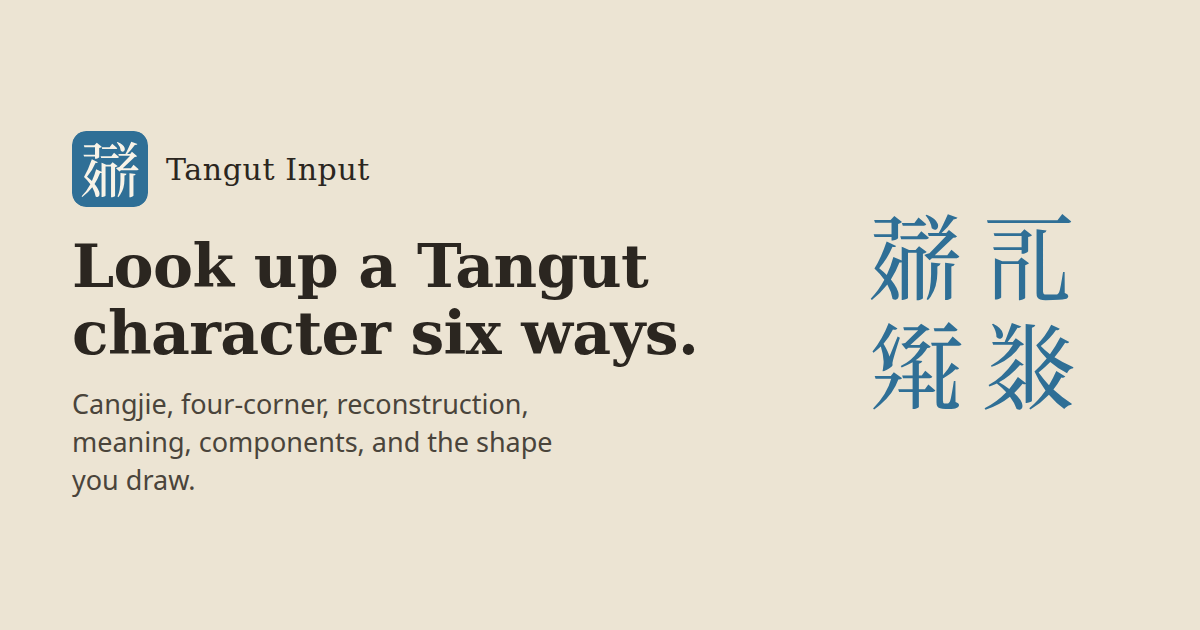
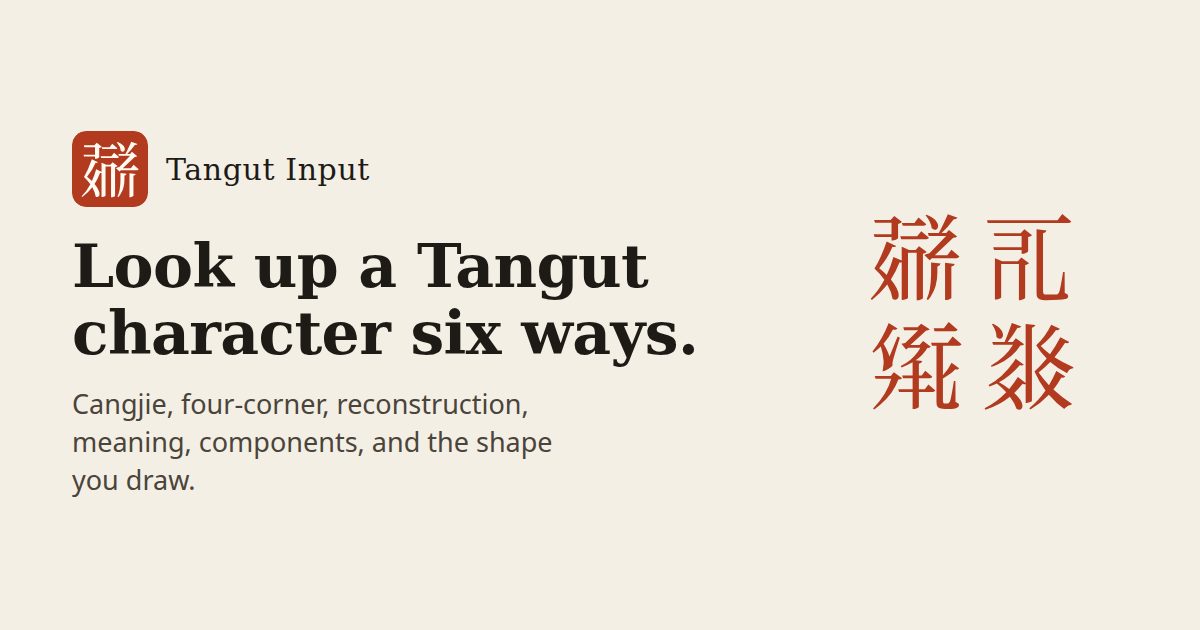
feat(ui): switch colour schemes and keep paper as the default

diff --git a/app/App.svelte b/app/App.svelte
@@ -4,7 +4,7 @@
   import { tick } from 'svelte'
   import { db, load } from './lib/db.svelte.js'
   import { route, go, PAGES, GROUPS, PRIMARY } from './lib/route.svelte.js'
-  import { ui, applyTangut, applyTheme, cycleTheme, setTangut, setReading, TANGUT_FACES } from './lib/ui.svelte.js'
+  import { ui, applyTangut, applyTheme, cycleTheme, setTheme, setTangut, setReading, setPalette, PALETTES, TANGUT_FACES } from './lib/ui.svelte.js'
   import { SYSTEMS, systemName, systemTitle } from './lib/reading.js'
   import { toast } from './lib/clip.svelte.js'
   import { i18n, LOCALES, setLocale, t } from './lib/i18n.svelte.js'
@@ -160,6 +160,15 @@
           </select>
         </span>
       </label>
+      <label class="palette" title={t('palette.label')}>
+        <span class="ui-visually-hidden">{t('palette.label')}</span>
+        <span class="ui-select-wrap">
+          <select class="ui-select" data-size="sm" value={ui.palette}
+            onchange={(/** @type {Event & { currentTarget: HTMLSelectElement }} */ event) => setPalette(/** @type {'paper' | 'mineral' | 'indigo' | 'sand'} */ (event.currentTarget.value))}>
+            {#each PALETTES as entry (entry.key)}<option value={entry.key}>{t(entry.label)}</option>{/each}
+          </select>
+        </span>
+      </label>
       <label class="lang" title={t('lang.label')}>
         <span class="ui-visually-hidden">{t('lang.label')}</span>
         <span class="ui-select-wrap">
@@ -269,15 +278,37 @@
       {/each}
     </div>
     <hr class="ui-menu-separator" />
-    <label class="sheet-lang">
-      <span class="ui-label">{t('lang.label')}</span>
-      <span class="ui-select-wrap">
-        <select class="ui-select" value={i18n.locale}
-          onchange={(/** @type {Event & { currentTarget: HTMLSelectElement }} */ event) => setLocale(/** @type {any} */ (event.currentTarget.value))}>
-          {#each LOCALES as locale (locale.key)}<option value={locale.key} lang={locale.key}>{locale.name}</option>{/each}
-        </select>
-      </span>
-    </label>
+    <div class="sheet-picks">
+      <label class="sheet-pick">
+        <span class="ui-label">{t('palette.label')}</span>
+        <span class="ui-select-wrap">
+          <select class="ui-select" value={ui.palette}
+            onchange={(/** @type {Event & { currentTarget: HTMLSelectElement }} */ event) => setPalette(/** @type {'paper' | 'mineral' | 'indigo' | 'sand'} */ (event.currentTarget.value))}>
+            {#each PALETTES as entry (entry.key)}<option value={entry.key}>{t(entry.label)}</option>{/each}
+          </select>
+        </span>
+      </label>
+      <label class="sheet-pick">
+        <span class="ui-label">{t('theme.label')}</span>
+        <span class="ui-select-wrap">
+          <select class="ui-select" value={ui.theme}
+            onchange={(/** @type {Event & { currentTarget: HTMLSelectElement }} */ event) => setTheme(/** @type {'auto' | 'light' | 'dark'} */ (event.currentTarget.value))}>
+            <option value="auto">{t('theme.auto')}</option>
+            <option value="light">{t('theme.light')}</option>
+            <option value="dark">{t('theme.dark')}</option>
+          </select>
+        </span>
+      </label>
+      <label class="sheet-pick">
+        <span class="ui-label">{t('lang.label')}</span>
+        <span class="ui-select-wrap">
+          <select class="ui-select" value={i18n.locale}
+            onchange={(/** @type {Event & { currentTarget: HTMLSelectElement }} */ event) => setLocale(/** @type {any} */ (event.currentTarget.value))}>
+            {#each LOCALES as locale (locale.key)}<option value={locale.key} lang={locale.key}>{locale.name}</option>{/each}
+          </select>
+        </span>
+      </label>
+    </div>
   </dialog>
 
   <div class="toast" role="status" aria-live="polite">{#if toast.message}<span class="ui-toast">{toast.message}</span>{/if}</div>
@@ -300,6 +331,7 @@
   .finders .group + .group, .finders .primary + .group{margin-inline-start:var(--ui-space-xs);padding-inline-start:var(--ui-space-xs);border-inline-start:1px solid var(--ui-color-border)}
   .aside{margin-inline-start:auto;display:flex;align-items:center;gap:var(--ui-space-2xs)}
   .reading :global(.ui-select){inline-size:154px}
+  .palette :global(.ui-select){inline-size:96px}
   .lang :global(.ui-select){inline-size:104px}
   .font-pick{position:relative}
   .sample{font-size:18px;line-height:1}
@@ -329,7 +361,8 @@
   .sheet-link:hover,.sheet-link.on{background:var(--ui-color-surface-hover)}
   .sheet-link.on .sheet-name{color:var(--ui-color-accent-ink)}
   .sheet-name{font-size:var(--ui-text-md);font-weight:var(--ui-weight-semibold);white-space:nowrap}
-  .sheet-lang{display:grid;gap:var(--ui-space-xs);margin-top:var(--ui-space-md);padding-inline:var(--ui-space-sm)}
+  .sheet-picks{display:grid;gap:var(--ui-space-md);margin-top:var(--ui-space-md);padding-inline:var(--ui-space-sm)}
+  .sheet-pick{display:grid;gap:var(--ui-space-xs)}
   .sheet .ui-menu-separator{margin-inline:var(--ui-space-sm)}
 
   @media (max-width:1180px){
@@ -340,7 +373,7 @@
   }
   /* A tablet keeps every finder: the bar takes a second row, and its rule runs the width of the
      page like the row above. The sticky chrome below it follows the new height. */
-  @media (min-width:901px) and (max-width:1180px){
+  @media (min-width:901px) and (max-width:1439px){
     .shell{--topbar-h:96px}
     .top{flex-wrap:wrap;gap:0 var(--ui-space-xl);padding-inline:var(--ui-space-xl);block-size:var(--topbar-h)}
     .mark,.aside{block-size:55px}
@@ -351,7 +384,7 @@
   @media (max-width:900px){
     .shell{--topbar-h:54px}
     .top{gap:var(--ui-space-sm);padding-inline:var(--ui-space-lg)}
-    .finders,.lang{display:none}
+    .finders,.lang,.palette{display:none}
     .aside{gap:2px}
     .reading :global(.ui-select){inline-size:142px;font-size:var(--ui-text-2xs)}
     .body{grid-template-columns:minmax(0,1fr)}

diff --git a/app/lib/ui.svelte.js b/app/lib/ui.svelte.js
@@ -8,6 +8,15 @@ import { record } from './record.js'
 const THEME = 'tangut-input:theme'
 const TANGUT = 'tangut-input:font'
 const READING = 'tangut-input:reading'
+const PALETTE = 'tangut-input:scheme'
+
+/** The colour schemes the design system carries, in the order the switcher lists them. */
+export const PALETTES = /** @type {const} */ ([
+  { key: 'paper', label: 'palette.paper' },
+  { key: 'mineral', label: 'palette.mineral' },
+  { key: 'indigo', label: 'palette.indigo' },
+  { key: 'sand', label: 'palette.sand' },
+])
 
 /** The Tangut faces the reader can set the script in. Each is a family the stylesheet defines. */
 export const TANGUT_FACES = /** @type {const} */ ([
@@ -22,6 +31,13 @@ export const ui = $state({
   sheet: false,
   /** @type {'auto' | 'light' | 'dark'} */
   theme: /** @type {'auto' | 'light' | 'dark'} */ ((typeof localStorage !== 'undefined' && localStorage.getItem(THEME)) || 'auto'),
+  /** The colour scheme. The document already carries the one the head picked; this mirrors it. */
+  /** @type {'paper' | 'mineral' | 'indigo' | 'sand'} */
+  palette: /** @type {'paper' | 'mineral' | 'indigo' | 'sand'} */ (
+    (typeof document !== 'undefined' && document.documentElement.dataset.palette)
+    || (typeof localStorage !== 'undefined' && localStorage.getItem(PALETTE))
+    || 'paper'
+  ),
   /** The face Tangut is set in. @type {'serif' | 'yinchuan' | 'wenhai' | 'kai'} */
   tangut: /** @type {'serif' | 'yinchuan' | 'wenhai' | 'kai'} */ ((typeof localStorage !== 'undefined' && localStorage.getItem(TANGUT)) || 'serif'),
   /** Which reconstruction readings are shown in, wherever a system can be chosen. 龔勛's by default. */
@@ -69,10 +85,23 @@ export function put(char, context = {}) {
   say(t('toast.added', { char }))
 }
 
-export function cycleTheme() {
-  ui.theme = ui.theme === 'auto' ? 'light' : ui.theme === 'light' ? 'dark' : 'auto'
+/** @param {'auto' | 'light' | 'dark'} theme */
+export function setTheme(theme) {
+  ui.theme = theme
   applyTheme()
-  try { localStorage.setItem(THEME, ui.theme) } catch { /* ignore */ }
+  try { localStorage.setItem(THEME, theme) } catch { /* ignore */ }
+}
+
+export function cycleTheme() {
+  setTheme(ui.theme === 'auto' ? 'light' : ui.theme === 'light' ? 'dark' : 'auto')
+}
+
+/** @param {'paper' | 'mineral' | 'indigo' | 'sand'} key */
+export function setPalette(key) {
+  if (!PALETTES.some(palette => palette.key === key)) return
+  ui.palette = key
+  document.documentElement.dataset.palette = key
+  try { localStorage.setItem(PALETTE, key) } catch { /* a blocked store only loses the choice */ }
 }
 
 /** @param {'serif' | 'yinchuan' | 'wenhai' | 'kai'} key */

diff --git a/app/index.html b/app/index.html
@@ -1,11 +1,11 @@
 <!doctype html>
-<html lang="en" data-palette="mineral">
+<html lang="en" data-palette="paper">
 <head>
   <meta charset="utf-8">
   <meta name="viewport" content="width=device-width, initial-scale=1, viewport-fit=cover">
   <meta name="color-scheme" content="light dark">
-  <meta name="theme-color" content="#ece4d3" media="(prefers-color-scheme: light)">
-  <meta name="theme-color" content="#151814" media="(prefers-color-scheme: dark)">
+  <meta name="theme-color" content="#f4efe5" media="(prefers-color-scheme: light)">
+  <meta name="theme-color" content="#141210" media="(prefers-color-scheme: dark)">
   <link rel="icon" href="/favicon.svg" type="image/svg+xml" sizes="any">
   <link rel="icon" href="/icon-32.png" type="image/png" sizes="32x32">
   <link rel="apple-touch-icon" href="/apple-touch-icon.png">
@@ -30,13 +30,13 @@
   <meta name="twitter:description" content="Look up a Tangut character by its Cangjie code, its four-corner code, its reconstruction, its meaning or the shape you draw.">
   <meta name="twitter:image" content="https://tangut.mkpo.li/og.png">
   <script>
-    // The palette is a design-system choice. `?palette=` previews one without a rebuild and
+    // The colour scheme is a design-system choice. `?palette=` previews one without a rebuild and
     // without changing the reader's next visit; the design page keeps its own pick.
     try {
       const known = ['paper', 'mineral', 'indigo', 'sand']
       const asked = new URLSearchParams(location.search).get('palette')
-      const kept = localStorage.getItem('tangut-input:palette')
-      const palette = known.includes(asked) ? asked : known.includes(kept) ? kept : 'mineral'
+      const kept = localStorage.getItem('tangut-input:scheme')
+      const palette = known.includes(asked) ? asked : known.includes(kept) ? kept : 'paper'
       document.documentElement.dataset.palette = palette
     } catch {}
   </script>

diff --git a/app/design-preview.js b/app/design-preview.js
@@ -4,7 +4,7 @@ import './app.css'
 import './design-preview.css'
 
 const KEY = 'tangut-input:theme'
-const PALETTE_KEY = 'tangut-input:palette'
+const PALETTE_KEY = 'tangut-input:scheme'
 
 /** @param {string} token */
 function read(token) {
@@ -148,7 +148,7 @@ function render() {
 const PALETTES = {
   paper: {
     name: 'Paper',
-    source: 'Warm paper and ink, the site\u2019s first palette; one vermilion marks what acts.',
+    source: 'Warm paper and ink, the site\u2019s default; one vermilion marks what acts.',
   },
   mineral: {
     name: 'Yulin',
@@ -156,7 +156,7 @@ const PALETTES = {
   },
   indigo: {
     name: 'Indigo',
-    source: 'Khara-Khoto manuscript XT-180, Institute of Oriental Manuscripts, RAS: indigo-dyed paper and gold ink, with cinnabar. Zorin, Revue d\u2019Études Tibétaines 56 (2020).',
+    source: 'Khara-Khoto manuscript XT-180, Institute of Oriental Manuscripts, RAS: aged indigo paper, green-black, with gold ink and cinnabar. Zorin, Revue d\u2019Études Tibétaines 56 (2020).',
   },
   sand: {
     name: 'Khara',
@@ -170,15 +170,15 @@ const sourceNote = /** @type {HTMLElement | null} */ (document.getElementById('p
 function currentPalette() {
   try {
     const kept = localStorage.getItem(PALETTE_KEY)
-    return kept && kept in PALETTES ? kept : 'mineral'
+    return kept && kept in PALETTES ? kept : 'paper'
   } catch {
-    return 'mineral'
+    return 'paper'
   }
 }
 
 /** @param {string} palette */
 function setPalette(palette) {
-  const key = palette in PALETTES ? palette : 'mineral'
+  const key = palette in PALETTES ? palette : 'paper'
   document.documentElement.dataset.palette = key
   try { localStorage.setItem(PALETTE_KEY, key) } catch {}
   for (const radio of paletteRadios) radio.checked = radio.value === key

diff --git a/app/design.html b/app/design.html
@@ -1,5 +1,5 @@
 <!doctype html>
-<html lang="en" data-palette="mineral">
+<html lang="en" data-palette="paper">
 <head>
   <meta charset="utf-8">
   <meta name="viewport" content="width=device-width, initial-scale=1, viewport-fit=cover">
@@ -12,8 +12,8 @@
     try {
       const theme = localStorage.getItem('tangut-input:theme')
       if (theme === 'light' || theme === 'dark') document.documentElement.dataset.theme = theme
-      const palette = localStorage.getItem('tangut-input:palette')
-      document.documentElement.dataset.palette = ['paper', 'mineral', 'indigo', 'sand'].includes(palette) ? palette : 'mineral'
+      const palette = localStorage.getItem('tangut-input:scheme')
+      document.documentElement.dataset.palette = ['paper', 'mineral', 'indigo', 'sand'].includes(palette) ? palette : 'paper'
     } catch {}
   </script>
 </head>

diff --git a/design/README.md b/design/README.md
@@ -46,7 +46,7 @@ attribute on the same root:
 <html data-palette="mineral">
 ```
 
-The site uses `mineral`; `paper` is the default when no attribute is set. A host page points the
+The site uses `paper`, its original warm-paper palette. `mineral`, `indigo` and `sand` are alternatives. A host page points the
 script tokens at its own faces; everything else is the system's:
 
 ```css
@@ -91,9 +91,9 @@ published images, not pigment measurements.
 
 | Palette | Root value | Ground and accent | Reference |
 | --- | --- | --- | --- |
-| Paper | none, or `paper` | Warm paper, ink and one vermilion | The site's first palette |
-| Yulin | `mineral` (the site's default) | Chalk and plaster, azurite blue, malachite green, cinnabar | Yulin Cave 3, west wall, Mañjuśrī (Western Xia) |
-| Indigo | `indigo` | Indigo paper, gold ink, cinnabar; the dark scheme is the manuscript | Khara-Khoto manuscript XT-180, IOM RAS |
+| Paper | none, or `paper` | Warm paper, ink and one vermilion | The site's default |
+| Yulin | `mineral` | Chalk and plaster, azurite blue, malachite green, cinnabar | Yulin Cave 3, west wall, Mañjuśrī (Western Xia) |
+| Indigo | `indigo` | Green-black indigo paper, aged gold ink, cinnabar; the dark scheme is the manuscript | Khara-Khoto manuscript XT-180, IOM RAS |
 | Khara | `sand` | Sand and gravel, desert sky, buff silk and brick red | Khara-Khoto and the Hermitage's Moon-Water Bodhisattva |
 
 The reference page has a palette switch and measures the chosen palette live. Comparison sheets for
